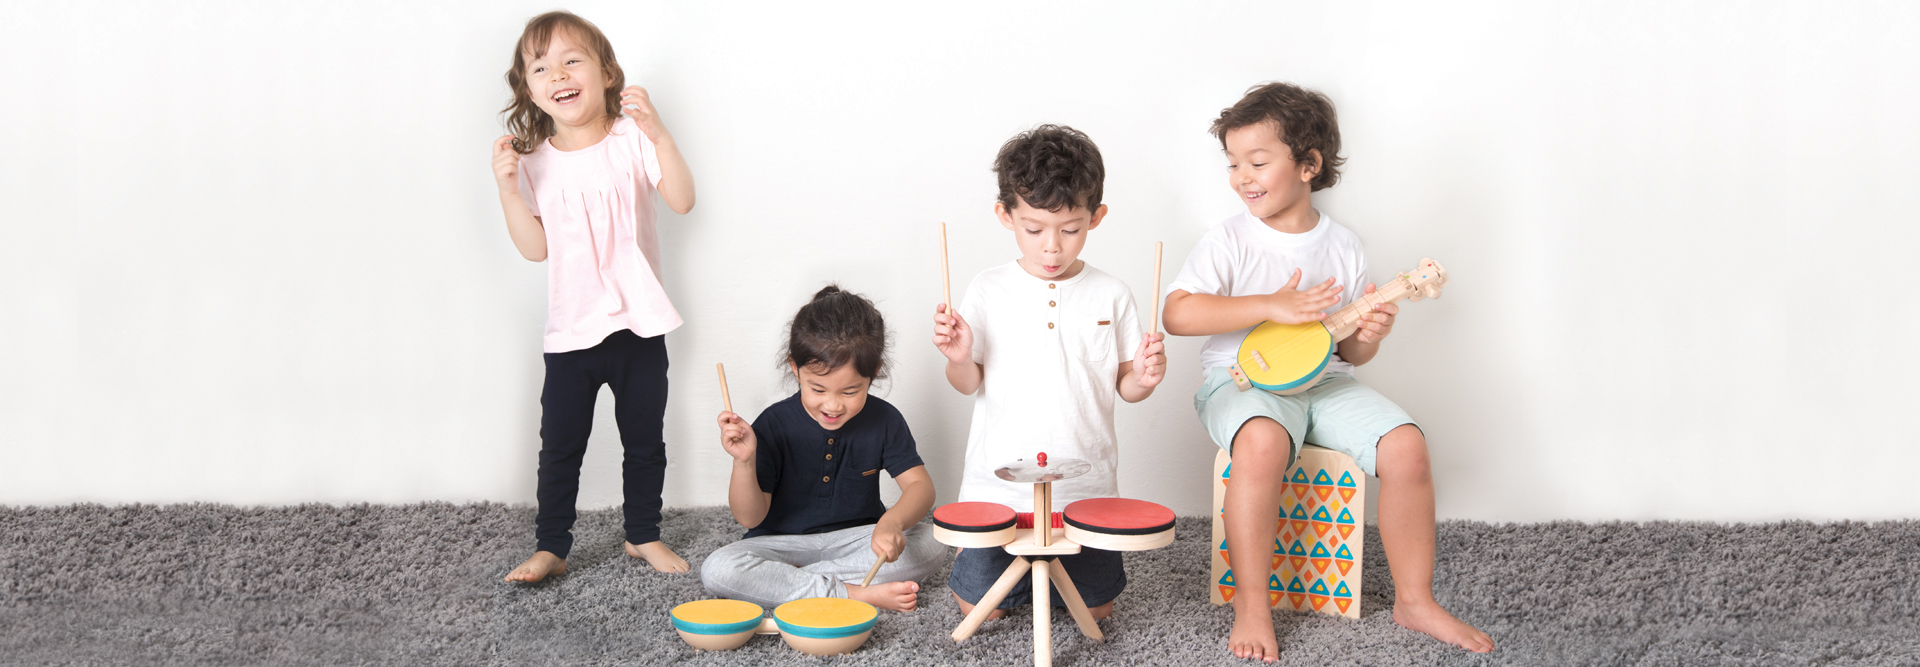
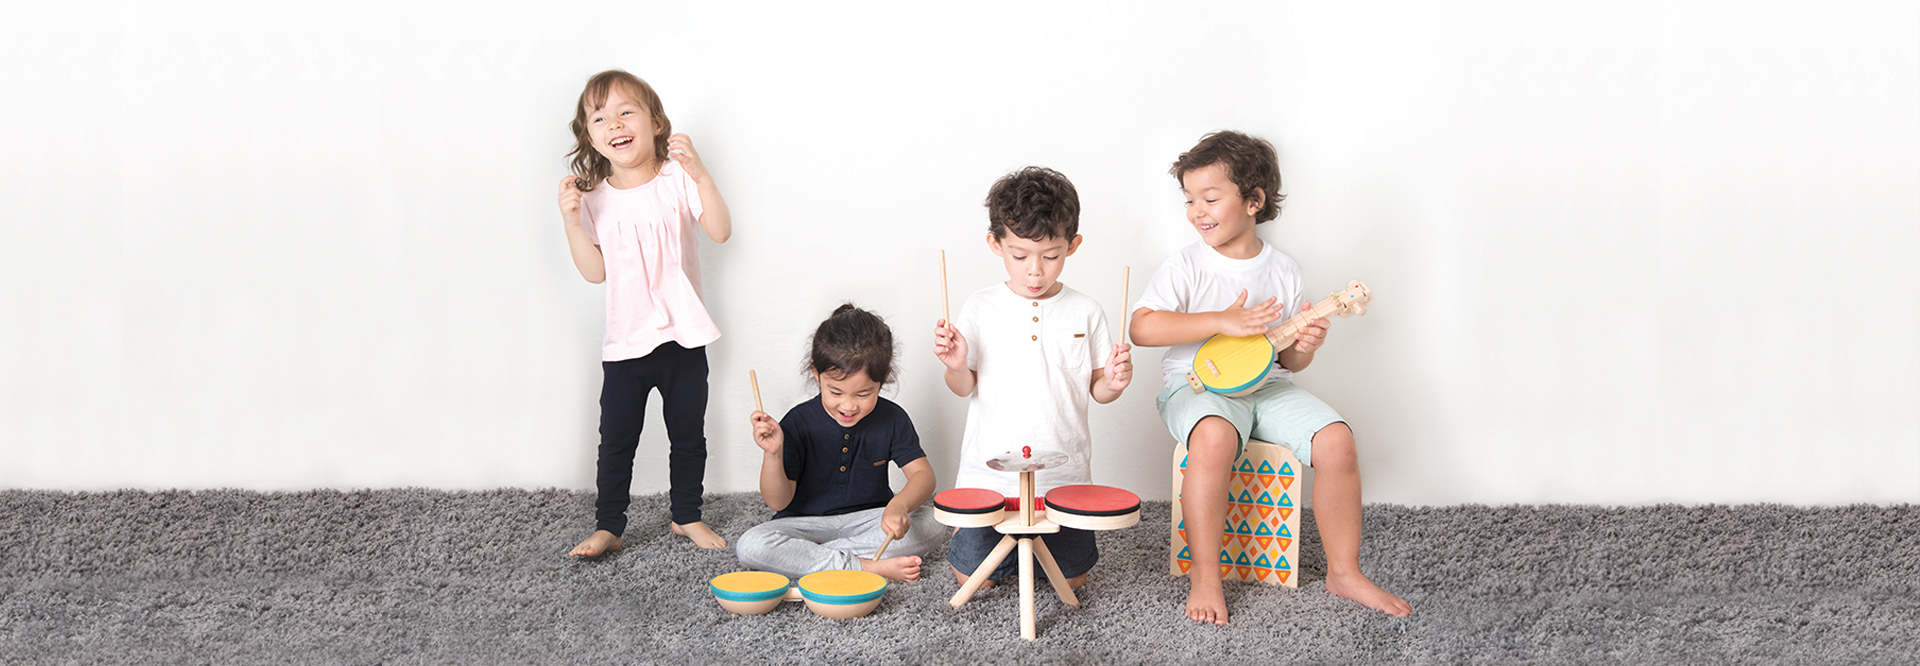
style: fix carousel hero position backgriund

diff --git a/assets/sass/components/_carousel.scss b/assets/sass/components/_carousel.scss
@@ -479,7 +479,7 @@
 
     .carousel-image {
         &.is-cover {
-            background-position: center top;
+            background-position: center 80px; // center top
         }
     }
 }
